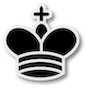
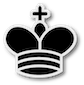
Add sprite centering in cell

diff --git a/MirrorChess/Board.cpp b/MirrorChess/Board.cpp
@@ -19,24 +19,38 @@ Board::Board(string spriteURI): bishop("white", "bishop", 200, 500)
     {
         if (i < nCellsPerRow)
         {
-            whitePieces.push_back(new Piece("white", pieces[i], i * cellSize + pieceSpriteOffset, pieceSpriteOffset));
+            blackPieces.push_back(new Piece("black", pieces[i], i * cellSize, 0));
         }
         else
         {
-            whitePieces.push_back(new Piece("white", pawn, (i - nCellsPerRow) * cellSize, cellSize + pieceSpriteOffset));
+            blackPieces.push_back(new Piece("black", pawn, (i - nCellsPerRow) * cellSize, cellSize));
         }
     }
 }
 
-void Board::update(int mousePosX, int mousePosY)
+// Not sure about this implementation. Not sure how to avoid dragging multiple pieces
+void Board::update(int mousePosX, int mousePosY, bool isMoveFinished)
 {
-    //    for (int i = 0; i < whitePieces.size(); i++)
-    //    {
-    //        if (whitePieces[i].getPosition().x - )
-    //        {
-    //
-    //        }
-    //    }
+    if (isMoveFinished)
+    {
+        activePiece->centerSprite(mousePosX - (mousePosX % cellSize), mousePosY - (mousePosY % cellSize));
+        activePiece = nullptr;
+    }
+    else if (activePiece == nullptr)
+    {
+        for (int i = 0; i < blackPieces.size(); i++)
+        {
+            if (blackPieces[i]->contains(mousePosX, mousePosY))
+            {
+                activePiece = blackPieces[i];
+                break;
+            }
+        }
+    }
+    else
+    {
+        activePiece->setPosition(mousePosX, mousePosY);
+    }
 }
 
 Sprite& Board::getSpriteRef()
@@ -47,11 +61,11 @@ Sprite& Board::getSpriteRef()
 
 Sprite& Board::getPieceRef(string color, int index)
 {
-    Sprite& spriteRef = whitePieces[index]->getSpriteRef();
+    Sprite& spriteRef = blackPieces[index]->getSpriteRef();
     return spriteRef;
 }
 
 int Board::getNumberOfPieces()
 {
-    return whitePieces.size();
+    return blackPieces.size();
 }

diff --git a/MirrorChess/Game/Game.cpp b/MirrorChess/Game/Game.cpp
@@ -40,12 +40,12 @@ void Game::handleInput()
             case Event::MouseButtonPressed:
                 if (event.key.code == Mouse::Left)
                 {
-                    isMoving = true;
+                    gameState = moving;
                 }
                 break;
                 
             case Event::MouseButtonReleased:
-                isMoving = false;
+                gameState = finished;
                 break;
                 
             default:
@@ -66,14 +66,12 @@ void Game::render()
         update();
         
         window.clear();
-                
+        
         window.draw(board.getSpriteRef());
-        for (int i = 0; i < board.getNumberOfPieces(); i++
-             )
+        for (int i = 0; i < board.getNumberOfPieces(); i++)
         {
             window.draw(board.getPieceRef("black", i));
         }
-        
         
         window.display();
     }
@@ -82,8 +80,18 @@ void Game::render()
 void Game::update()
 {
     // here goes logic to find piece and move it
-    if (isMoving)
+    switch (gameState)
     {
-        board.update(mousePos.x, mousePos.y);
+        case moving:
+            board.update(mousePos.x, mousePos.y, false);
+            break;
+            
+        case finished:
+            board.update(mousePos.x, mousePos.y, true);
+            gameState = notMoving;
+            break;
+            
+        default:
+            break;
     }
 }

diff --git a/MirrorChess/Piece/Piece.cpp b/MirrorChess/Piece/Piece.cpp
@@ -8,19 +8,27 @@
 
 #include "Piece.hpp"
 #include "utils.hpp"
+#include "Constants.h"
 #include <iostream>
 
 Piece::Piece(string color, string type, int posX, int posY): type(type), color(color), posX(posX), posY(posY),spriteURI(color + "-" + type)
 {
-    std::cout << spriteURI << std::endl;
     texture.loadFromFile("Assets/" + spriteURI + ".png");
     sprite.setTexture(texture);
     sprite.setPosition(posX, posY);
+    centerSprite(posX, posY);
 }
 
-sf::Vector2f Piece::getPosition()
+// do I need this?
+Vector2f Piece::getPosition()
 {
     return sprite.getPosition();
+}
+
+bool Piece::contains(int mousePosX, int mousePosY)
+{
+    std::cout << sprite.getOrigin().x << endl;
+    return sprite.getGlobalBounds().contains(mousePosX, mousePosY);
 }
 
 void Piece::setPosition(int mousePosX, int mousePosY)
@@ -31,6 +39,13 @@ void Piece::setPosition(int mousePosX, int mousePosY)
         dy = sprite.getPosition().y - mousePosY;
     }
     sprite.setPosition(mousePosX + dx, mousePosY + dy);
+}
+
+void Piece::centerSprite(int posX, int posY)
+{
+    int horizontalOffset = (cellSize - sprite.getTexture()->getSize().x) / 2;
+    int verticalOffset = (cellSize - sprite.getTexture()->getSize().y) / 2;
+    sprite.setPosition(posX + horizontalOffset, posY + verticalOffset);
 }
 
 Sprite& Piece::getSpriteRef()

diff --git a/MirrorChess/Board.hpp b/MirrorChess/Board.hpp
@@ -26,10 +26,11 @@ private:
     Piece bishop;
     Texture bT;
     Sprite bS;
+    Piece* activePiece = nullptr;
     
 public:
     Board(string spriteURI);
-    void update(int mousePosX, int mousePosY);
+    void update(int mousePosX, int mousePosY, bool isMoveFinished);
     Sprite& getSpriteRef();
     Sprite& getPieceRef(string color, int index);
     int getNumberOfPieces();

diff --git a/MirrorChess/Game/Game.hpp b/MirrorChess/Game/Game.hpp
@@ -15,6 +15,13 @@
 
 using namespace sf;
 
+enum GameState
+{
+    moving,
+    finished,
+    notMoving
+};
+
 class Game
 {
 private:
@@ -22,7 +29,7 @@ private:
     Board board;
     Vector2i mousePos;
     void render();
-    bool isMoving = false;
+    GameState gameState = notMoving;
     void update();
     
 public:

diff --git a/MirrorChess/Constants.h b/MirrorChess/Constants.h
@@ -17,7 +17,7 @@ const int boardSize = 800;
 const int cellSize = 100;
 const int nCellsPerRow = 8;
 const int piecesPerPlayer = 16;
-const int pieceSpriteSize = 87;
+const int pieceSpriteSize = 86;
 const int pieceSpriteOffset = (cellSize - pieceSpriteSize) / 2;
 const string pieces[]
 {

diff --git a/MirrorChess/Piece/Piece.hpp b/MirrorChess/Piece/Piece.hpp
@@ -34,6 +34,8 @@ public:
     void setPosition(int mousePosX, int mousePosY);
     Vector2f getPosition();
     Sprite& getSpriteRef();
+    bool contains(int mousePosX, int mousePosY);
+    void centerSprite(int posX, int posY);
 };
 
 #endif /* Piece_*hpp */
